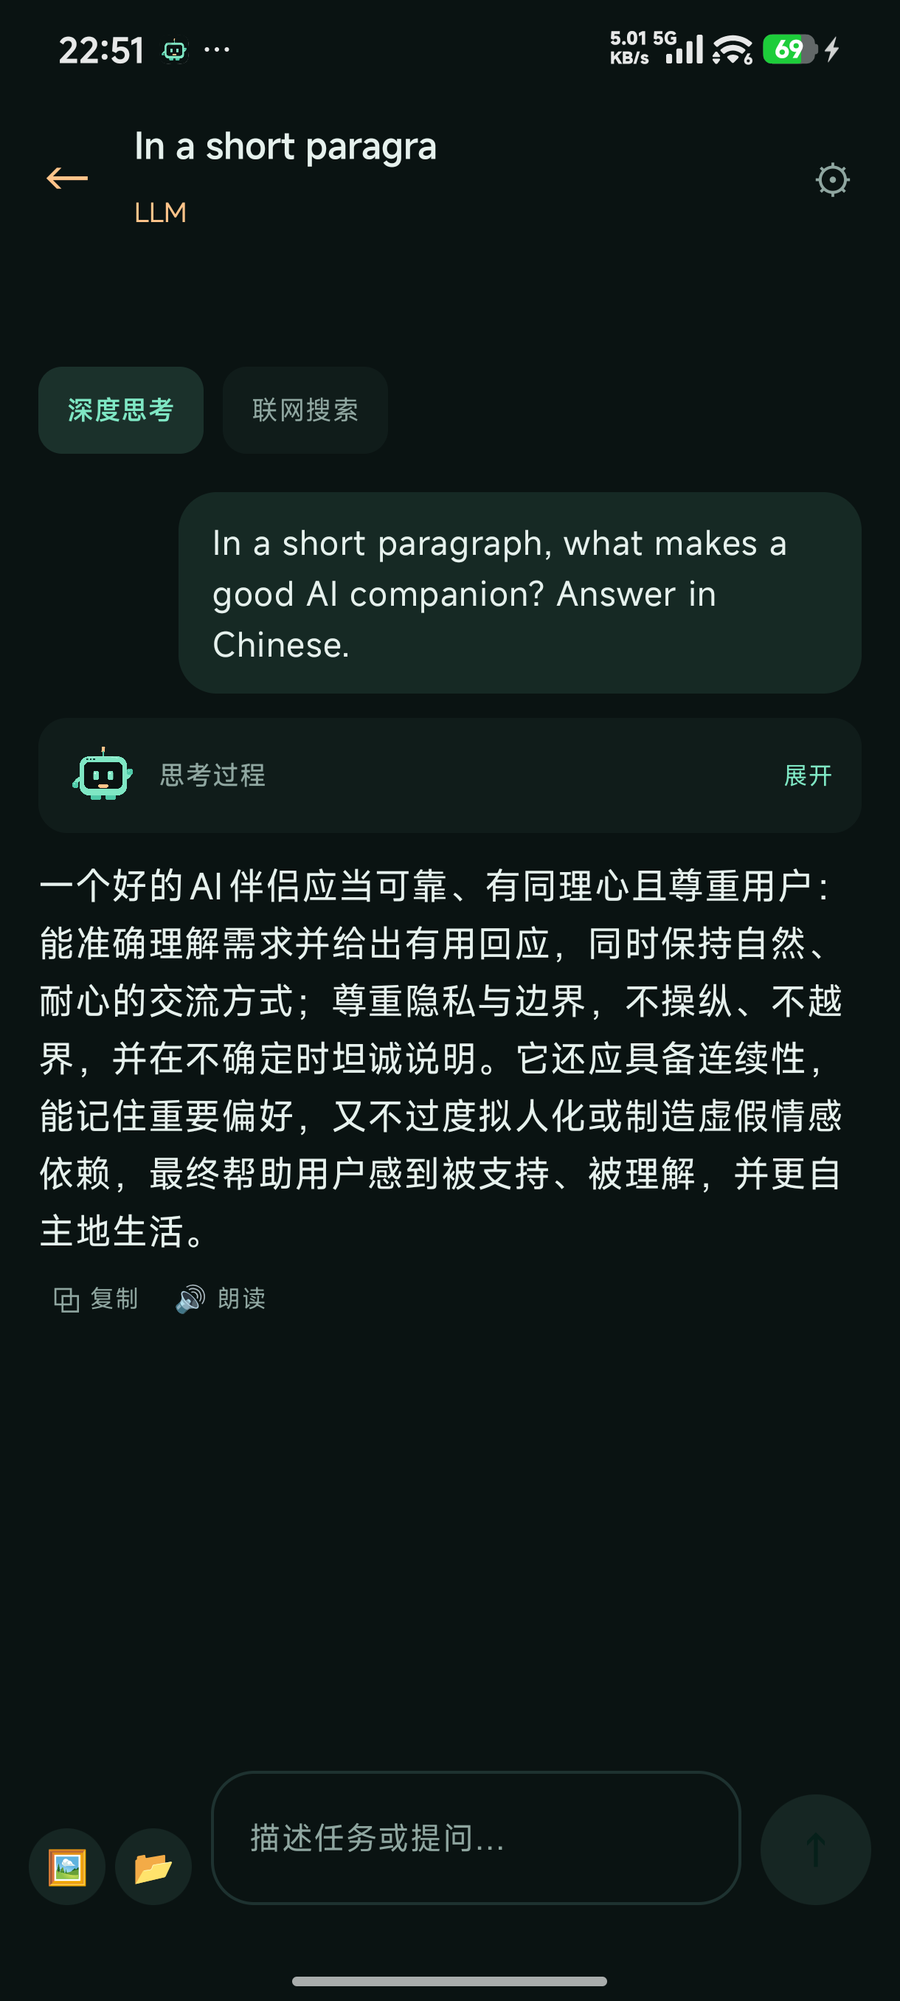
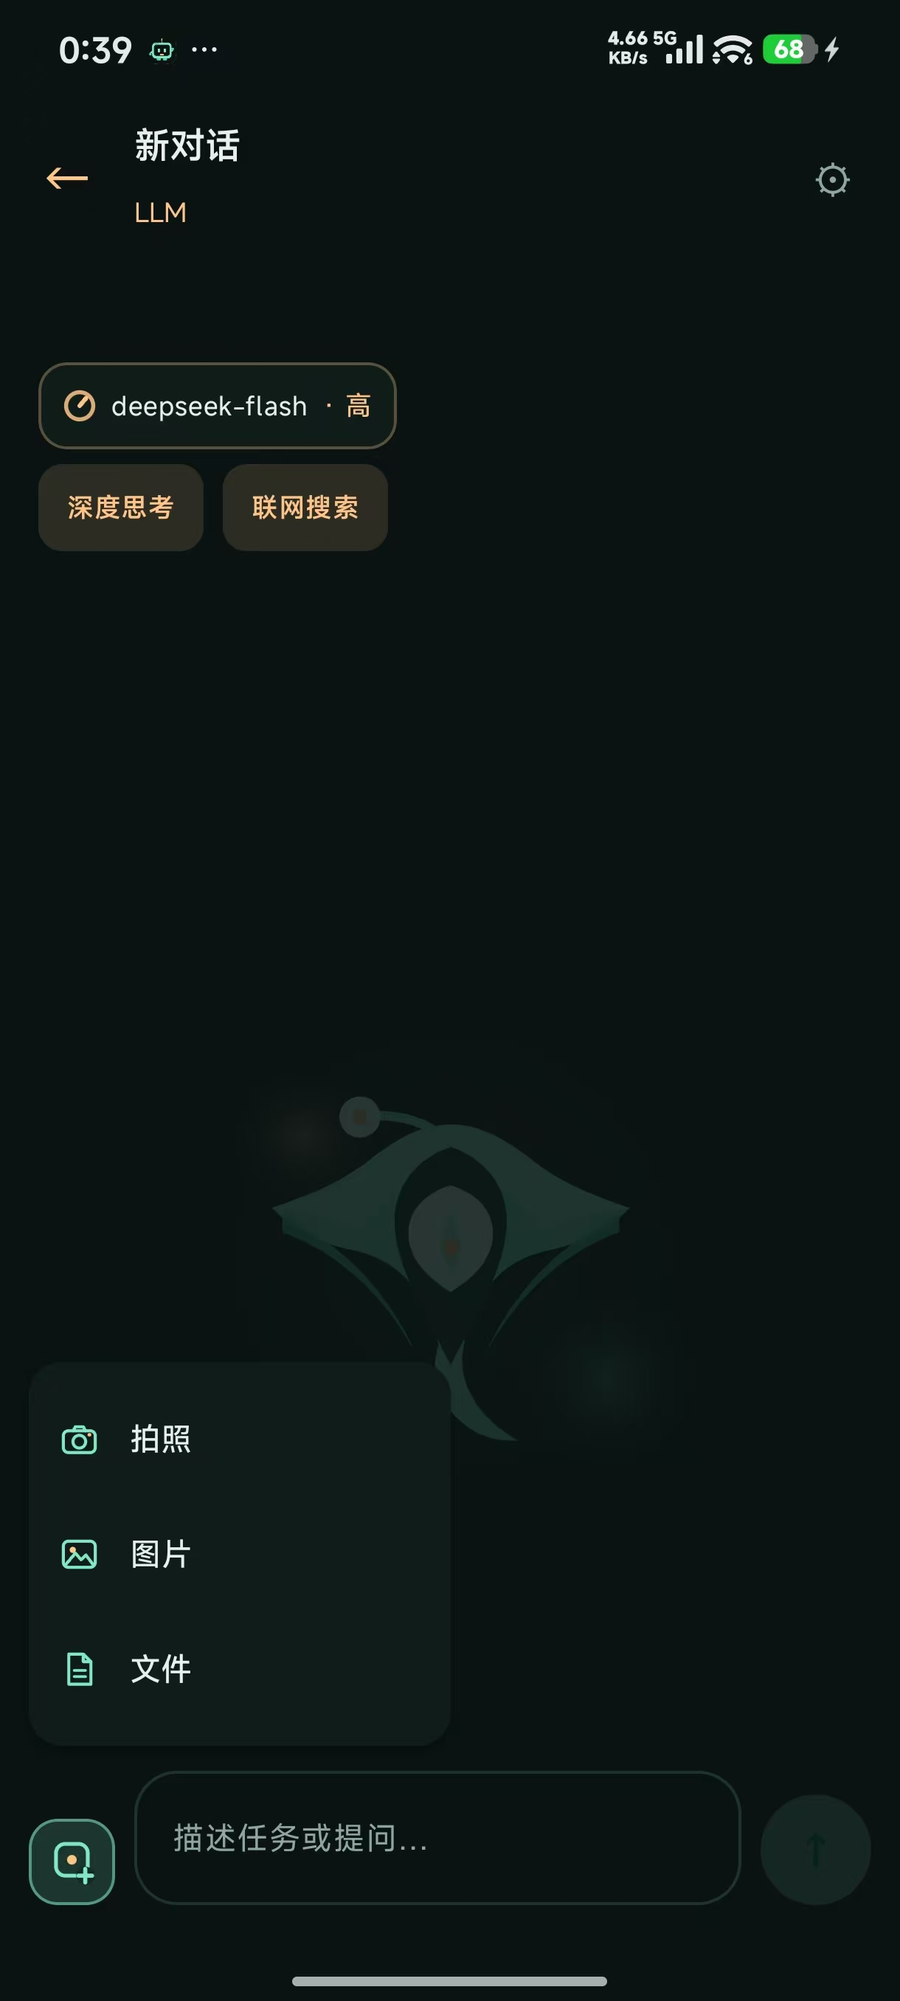
docs: refresh 26.11.4 screenshots from the open-source build

diff --git a/README.md b/README.md
@@ -289,7 +289,7 @@ DLA 的 LLM 区与 Agent 区共用一套设置：`协议` + `Base URL` + `API Ke
 
 ![LLM 区](docs/assets/screenshot-llm.png)
 
-<p align="center"><sub>LLM 区：暖色标识、深度思考 / 联网搜索快捷开关，思考过程可展开，会话与 Agent 区完全隔离</sub></p>
+<p align="center"><sub>LLM 区（开源版 26.11.4）：琥珀色标识、模型 · 思考强度胶囊、深度思考 / 联网搜索快捷开关；左下角是拍照 / 图片 / 文件三个附件入口，会话与 Agent 区完全隔离</sub></p>
 
 ![角色设定与朗读](docs/assets/screenshot-persona.png)
 
@@ -317,7 +317,7 @@ DLA 的 LLM 区与 Agent 区共用一套设置：`协议` + `Base URL` + `API Ke
 
 ![工具卡展开：执行身份、参数与结果](docs/assets/screenshot-tool.png)
 
-<p align="center"><sub>工具卡展开：结果面板顶部就是 `[phone_sh · 应用身份]`、退出码、耗时与工作目录</sub></p>
+<p align="center"><sub>26.11.4 真机（开源版）：工具卡展开能看到执行身份、参数与结果——顶部写「身份：应用身份（无特权）」，结果面板带 `[phone_sh · 应用身份]`、退出码、耗时与工作目录。</sub></p>
 
 <a id="outputs"></a>
 
@@ -353,6 +353,10 @@ DLA 的 LLM 区与 Agent 区共用一套设置：`协议` + `Base URL` + `API Ke
 - 点开是同一个对话框：模型名 + 已缓存模型（单列可滚动，全部可选）+ 思考强度三档（低 ≈2048 / 中 ≈4096 / 高 ≈8192 tokens），应用后两个区共用。
 - DeepSeek 端点的思考档位仍由官方控制，不强行塞 `budget_tokens`。
 
+![26.11.4 真机：模型与思考强度对话框](docs/assets/screenshot-model.png)
+
+<p align="center"><sub>26.11.4 真机（开源版）：一个表盘胶囊管两个区；模型名、已缓存模型（可滚动）、低 / 中 / 高三档都在同一个对话框里，琥珀色是 LLM 区。</sub></p>
+
 ### 2）联网：DeepSeek 官方搜索 / 抓取（可选付费通道）
 
 - 设置 → 对话新增「DeepSeek 官方搜索 Key（可选）」：填一个官方 Key，搜索/抓取就走 DeepSeek 官方接口，**与聊天用哪家模型无关**。
@@ -365,6 +369,10 @@ DLA 的 LLM 区与 Agent 区共用一套设置：`协议` + `Base URL` + `API Ke
 - Agent 区带工具调用的轮次里，模型的过程叙述不再混在正文气泡，而是收进「执行过程」卡，显示在该轮思考卡与工具卡上方：淡色小字「旁白 · …」（长按可复制）。
 - 正文气泡只剩最终总结；消息模型新增 `round_note` 块（`{"type":"round_note","text":…,"round":N}`），排在该轮思考与工具之前落盘。
 - LLM 区继续保持「过程叙述不进气泡」（工具轮的文本只进上下文）——两边口径一致：回答是回答，过程是过程。
+
+![26.11.4 真机：执行过程卡里的轮旁白、思考与工具](docs/assets/screenshot-process.png)
+
+<p align="center"><sub>26.11.4 真机（开源版）：第 1 轮的「旁白 · …」排在思考卡与工具卡之上，phone_device / phone_sh 各带耗时；状态条里缓存、本轮耗时、上下文各占一处，正文气泡只剩最终总结。</sub></p>
 
 ### 4）工具广度：一类任务一个工具
 
@@ -394,11 +402,6 @@ DLA 的 LLM 区与 Agent 区共用一套设置：`协议` + `Base URL` + `API Ke
 - **思考 → 调用 → 思考**：看门狗只让这一轮直接执行、下一轮恢复思考；截断的思考尾巴接回重试提示；预算 12K → 6K → 3K 自适应；同一轮重试不消耗轮数；`max_tokens` 只烧出思考时走同样恢复路径。
 - **thinking 块回传**：assistant 消息带回 thinking 块（含 signature），截断重试时补回中止前的思考，满足 DeepSeek / Anthropic 的硬要求。
 - **执行过程大卡 + 状态条**：所有「第 N 轮」收进一张可折叠大卡（运行中展开、结束折叠）；缓存命中率与本轮耗时单独一行。
-
-![3.6.0 真机：任务结束后的执行过程大卡与状态条](docs/assets/screenshot-process.png)
-
-<p align="center"><sub>3.6.0 真机：19 轮任务结束后「执行过程」自动折叠；状态条第一行是缓存 80% 与本轮 2m31s，第二行才是上下文占用。</sub></p>
-
 
 ### 3.5.0 打下的底子
 
